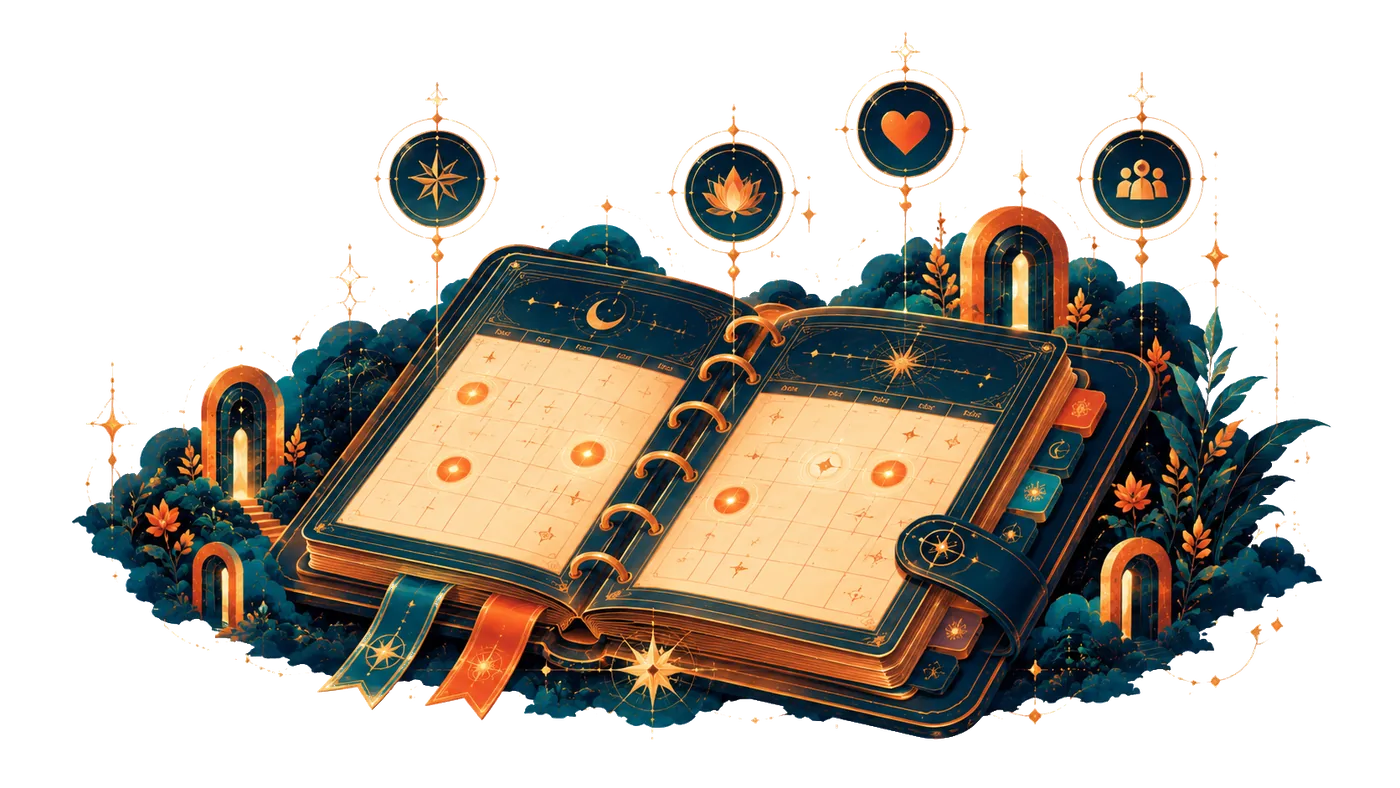
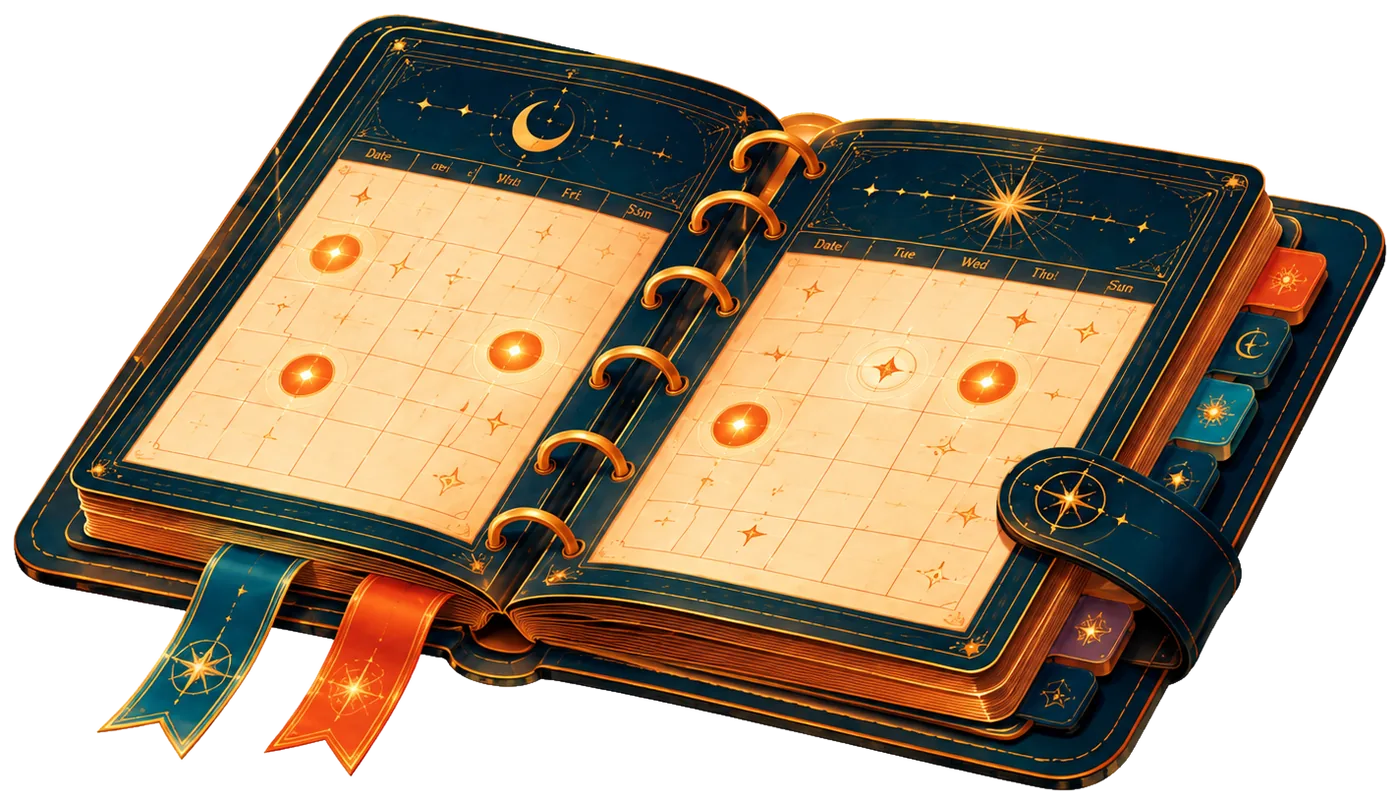
Replace events-journal image with new transparent-background journal (cutout, compressed webp)

diff --git a/index.html b/index.html
@@ -390,7 +390,7 @@
     <section id="events" class="relative py-24 md:py-28" style="background:linear-gradient(180deg, transparent, rgba(20,56,74,.35), transparent);">
       <div class="max-w-6xl mx-auto px-5">
         <div class="reveal max-w-3xl mx-auto mb-6">
-          <img src="images/events-journal.webp" loading="lazy" width="1400" height="788" class="w-full h-auto" alt="יומן הרפתקה ובו המפגשים הקרובים" onerror="this.style.display='none'">
+          <img src="images/events-journal.webp" loading="lazy" width="1400" height="804" class="w-full h-auto" alt="יומן הרפתקה ובו המפגשים הקרובים" onerror="this.style.display='none'">
         </div>
         <div class="text-center max-w-2xl mx-auto mb-12 reveal">
           <h2 class="text-4xl md:text-5xl font-extrabold mb-4">המפגשים הקרובים</h2>